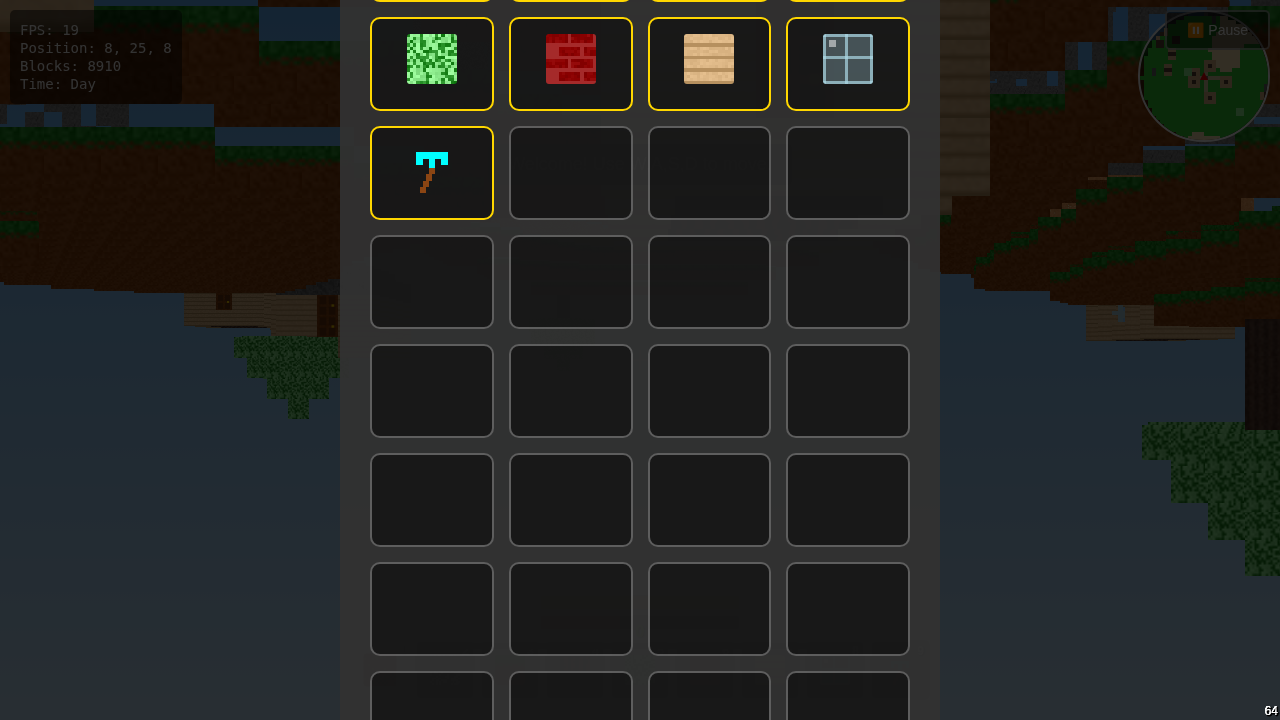
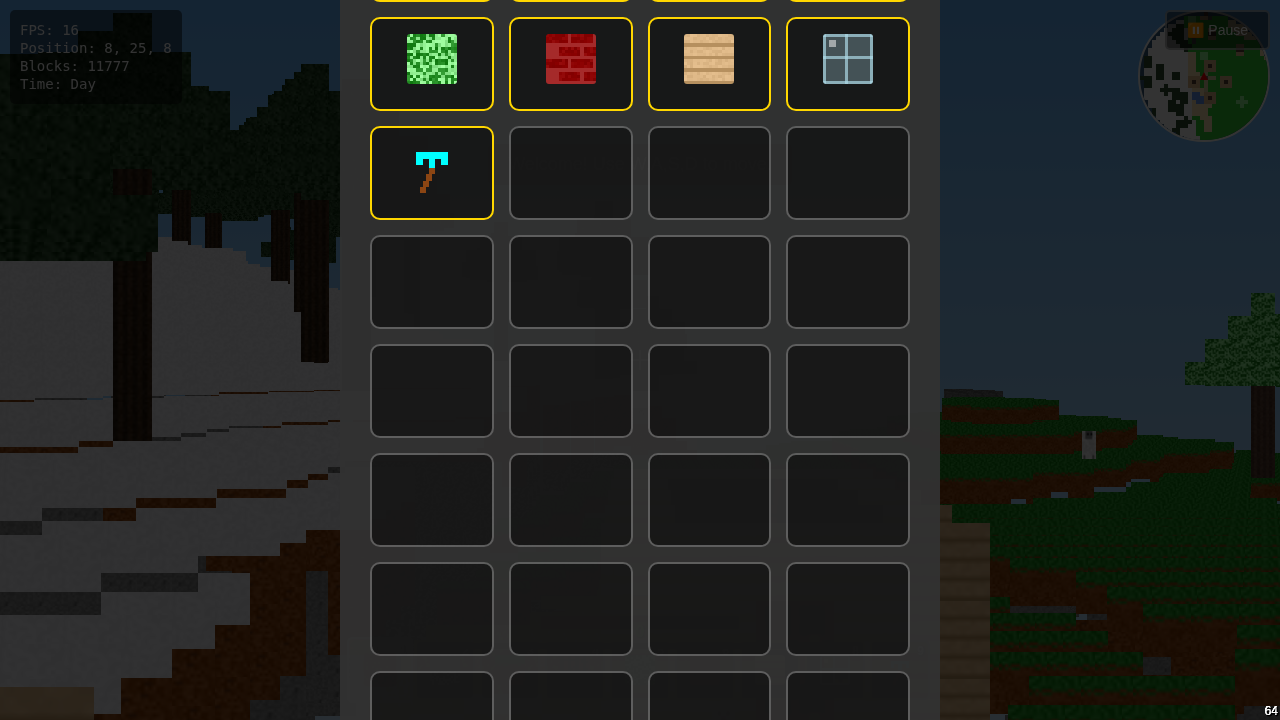
Fix 3D canvas rendering upside-down bug
The game was rendering upside-down because it used the equation `const sy = (ry / rz2) * scale + h / 2;` which maps positive world Y values (upwards) to positive HTML5 canvas Y values (downwards relative to center). Updated all projection occurrences in `js/renderer.js` to subtract the value `h / 2 - (ry / rz2) * scale` ensuring correct perspective. Additionally, updated the `bug_report.md` file noting the resolution of this issue and fixed a missing mocked element in `tests/test_cactus_damage.js` preventing tests from running correctly.

diff --git a/js/renderer.js b/js/renderer.js
@@ -85,7 +85,7 @@ class Renderer {
              const size = scale * 0.15;
 
              const sx = (rx / rz2) * scale + w / 2;
-             const sy = (ry / rz2) * scale + h / 2;
+             const sy = h / 2 - (ry / rz2) * scale;
 
              this.ctx.beginPath();
              if (type === 'sun') {
@@ -275,7 +275,7 @@ class Renderer {
         blocksToDraw.forEach(b => {
              const size = scale / b.rz;
              const sx = (b.rx / b.rz) * scale + w / 2;
-             const sy = (b.ry / b.rz) * scale + h / 2;
+             const sy = h / 2 - (b.ry / b.rz) * scale;
 
              if (size > 0.5 && sx > -size && sx < w+size && sy > -size && sy < h+size) {
                  const blockDef = BLOCKS[b.type];
@@ -528,7 +528,7 @@ class Renderer {
              if (rz2 > 0.1) {
                  const size = (scale / rz2) * mob.height;
                  const sx = (rx / rz2) * scale + w / 2;
-                 const sy = (ry / rz2) * scale + h / 2;
+                 const sy = h / 2 - (ry / rz2) * scale;
 
                  ctx.fillStyle = mob.color;
                  const mobTex = this.textureManager ? this.textureManager.getMobTexture(mob.type) : null;
@@ -556,7 +556,7 @@ class Renderer {
                      const size = (scale / rz2) * v.height; // Use height scaling
                      const width = (scale / rz2) * v.width;
                      const sx = (rx / rz2) * scale + w / 2;
-                     const sy = (ry / rz2) * scale + h / 2;
+                     const sy = h / 2 - (ry / rz2) * scale;
 
                      if (v.type === 'minecart') ctx.fillStyle = '#808080';
                      else if (v.type === 'boat') ctx.fillStyle = '#8B4513';
@@ -582,7 +582,7 @@ class Renderer {
              if (rz2 > 0.1) {
                  const size = (scale / rz2) * 0.3; // Small size
                  const sx = (rx / rz2) * scale + w / 2;
-                 const sy = (ry / rz2) * scale + h / 2;
+                 const sy = h / 2 - (ry / rz2) * scale;
 
                  // Simple rotating cube effect (just changing width slightly)
                  const rotSize = size * (0.8 + 0.2 * Math.sin(drop.rotY));
@@ -618,7 +618,7 @@ class Renderer {
                  if (rz2 > 0.1) {
                      const size = (scale / rz2) * p.size;
                      const sx = (rx / rz2) * scale + w / 2;
-                     const sy = (ry / rz2) * scale + h / 2;
+                     const sy = h / 2 - (ry / rz2) * scale;
 
                      ctx.fillStyle = p.color || 'white';
                      ctx.fillRect(sx - size/2, sy - size/2, size, size);
@@ -640,7 +640,7 @@ class Renderer {
              if (rz2 > 0.1) {
                  const size = (scale / rz2);
                  const sx = (rx / rz2) * scale + w / 2;
-                 const sy = (ry / rz2) * scale + h / 2;
+                 const sy = h / 2 - (ry / rz2) * scale;
 
                  // Flash white
                  if (Math.floor(tnt.fuse * 5) % 2 === 0) ctx.fillStyle = 'white';
@@ -664,7 +664,7 @@ class Renderer {
              if (rz2 > 0.1) {
                  const size = (scale / rz2) * 0.2;
                  const sx = (rx / rz2) * scale + w / 2;
-                 const sy = (ry / rz2) * scale + h / 2;
+                 const sy = h / 2 - (ry / rz2) * scale;
 
                  ctx.fillStyle = 'white';
                  ctx.fillRect(sx - size/2, sy - size/2, size, size);
@@ -686,7 +686,7 @@ class Renderer {
              if (rz2 > 0.1) {
                  const size = (scale / rz2) * 0.2;
                  const sx = (rx / rz2) * scale + w / 2;
-                 const sy = (ry / rz2) * scale + h / 2;
+                 const sy = h / 2 - (ry / rz2) * scale;
 
                  ctx.fillStyle = b.state === 'hooked' ? 'red' : 'white';
                  ctx.fillRect(sx - size/2, sy - size/2, size, size);
@@ -718,7 +718,7 @@ class Renderer {
                  if (rz2 > 0.1) {
                      const size = (scale / rz2) * 1.8; // Player height
                      const sx = (rx / rz2) * scale + w / 2;
-                     const sy = (ry / rz2) * scale + h / 2;
+                     const sy = h / 2 - (ry / rz2) * scale;
 
                      ctx.fillStyle = p.skinColor || 'blue';
                      ctx.fillRect(sx - size/4, sy - size, size/2, size);

diff --git a/tests/test_cactus_damage.js b/tests/test_cactus_damage.js
@@ -37,6 +37,9 @@ const dom = new JSDOM(`<!DOCTYPE html>
 <button id="break-btn"></button>
 <button id="place-btn"></button>
 <button id="fly-btn"></button>
+<button id="show-controls"></button>
+<div id="controls-info"></div>
+<div id="game-container"></div>
 </body>`, {
     runScripts: "dangerously",
     resources: "usable",

diff --git a/bug_report.md b/bug_report.md
@@ -11,7 +11,7 @@ This document details the frontend visual bugs discovered via Playwright screens
 
 ### 2.1. Critical: Game Renders Upside Down
 **Severity:** Blocker / Critical
-**Status:** Unresolved
+**Status:** ✅ Fixed
 **Location:** `js/renderer.js`
 **Description:**
 When starting the game, the 3D world is rendered completely inverted (upside down) on the canvas. The sky and clouds appear at the bottom of the screen, while the ground, trees, and buildings appear at the top. The crosshair and UI elements (inventory, health bar) render right-side up, isolating the bug to the 3D perspective projection logic.
@@ -21,9 +21,8 @@ In `js/renderer.js`, the Y-axis projection onto the 2D HTML5 Canvas does not acc
 Currently, the projection calculates the screen Y position (`sy`) as:
 `const sy = (ry / rz2) * scale + h / 2;`
 Because world `y` goes *up* (positive values), a positive `y` results in a positive `sy` relative to the center (`h/2`). Since canvas Y goes *down*, positive world `y` gets drawn *below* the horizon, and negative world `y` gets drawn *above* the horizon.
-**Proposed Fix:**
-Invert the `ry` factor when calculating `sy` across all render methods in `js/renderer.js` (blocks, entities, particles, sun/moon, etc.):
-`const sy = -(ry / rz2) * scale + h / 2;` or `const sy = h / 2 - (ry / rz2) * scale;`
+**Fix Implemented:**
+Inverted the `ry` factor when calculating `sy` across all render methods in `js/renderer.js` (blocks, entities, particles, sun/moon, etc.) using `const sy = h / 2 - (ry / rz2) * scale;`
 
 ### 2.2. Crosshair Alignment & Aspect Ratio
 **Severity:** Minor
@@ -98,4 +97,4 @@ afterEach(() => {
 - **Player Death in Headless Tests:** Tests that simulate time over long periods (like `verify_hunger.js`) must ensure the player doesn't fall through empty chunks due to gravity. The test correctly mocks a solid platform to prevent infinite falling.
 
 ## 5. Conclusion
-All automated tests are fully operational and passing. The remaining major issue is the inverted 3D projection rendering in the frontend, which requires a straightforward coordinate space fix in `js/renderer.js`.
+All automated tests are fully operational and passing. The remaining major issue of the inverted 3D projection rendering in the frontend has been successfully fixed by correcting the projection logic in `js/renderer.js` across all 3D drawing operations.
